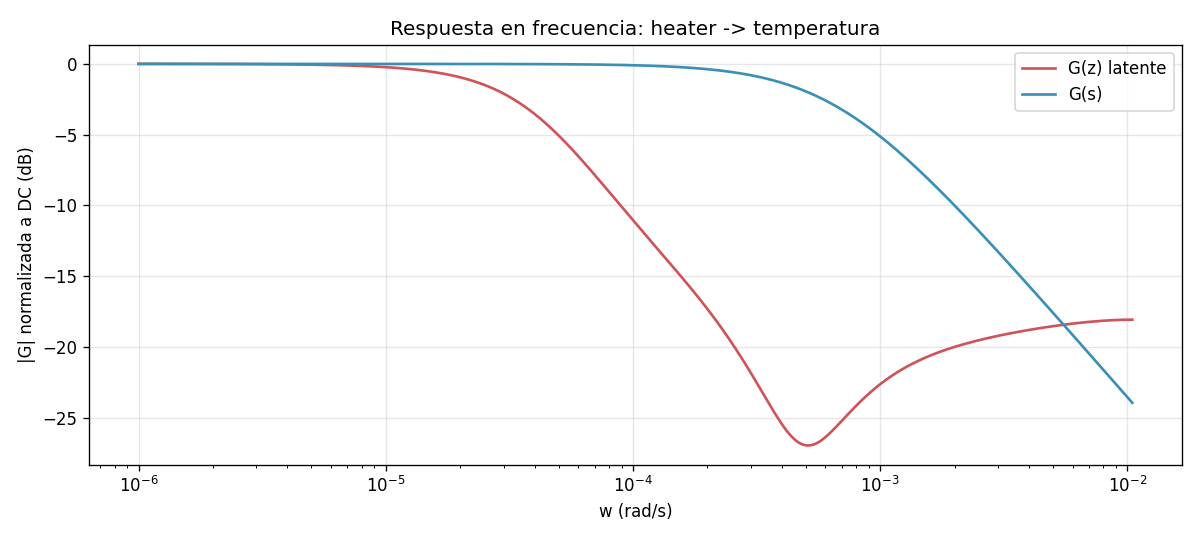
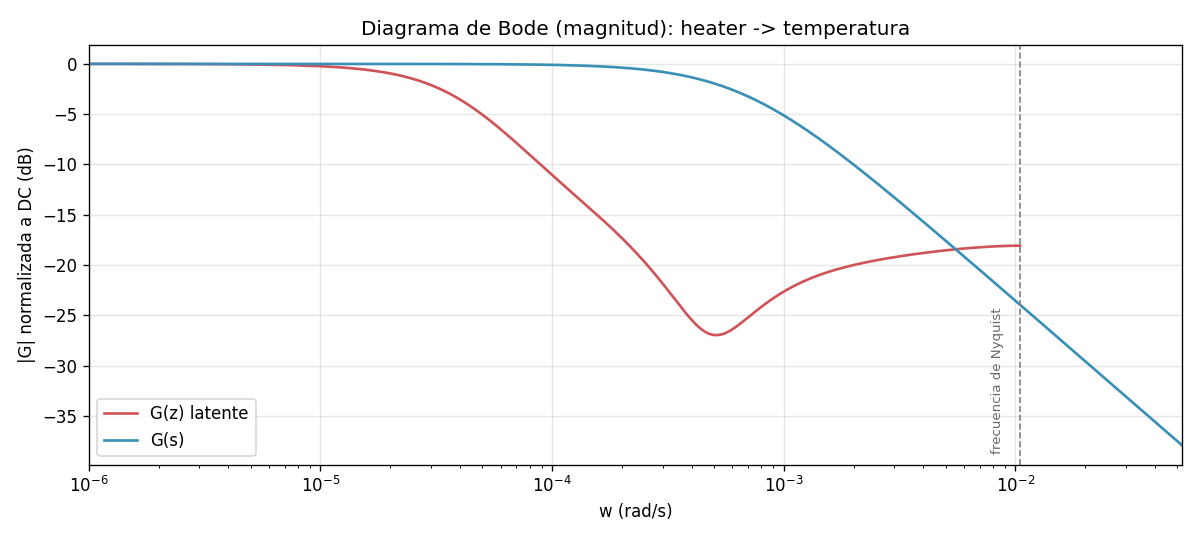
fix: diagrama de Bode con frecuencia de Nyquist marcada y etiquetas dentro del eje

diff --git a/src/graficas.py b/src/graficas.py
@@ -72,15 +72,23 @@ def main():
     scale_h = m["u_scale"][j]
     num_z, den_z = signal.ss2tf(A, B[:, [j]] / scale_h, C, D[:, [j]] / scale_h)
     num_z = num_z.ravel()
-    w = np.logspace(-6, np.log10(np.pi / dt), 400)
+    w_nyq = np.pi / dt
+    w = np.logspace(-6, np.log10(w_nyq), 400)
+    w_s = np.logspace(-6, np.log10(w_nyq) + 0.7, 500)
     _, mag_z, _ = signal.dbode((num_z, den_z, dt), w=w * dt)
-    _, mag_s, _ = signal.bode((modelo_control.NUM_S, modelo_control.DEN_S), w=w)
+    _, mag_s, _ = signal.bode((modelo_control.NUM_S, modelo_control.DEN_S), w=w_s)
     fig, ax = plt.subplots(figsize=(10, 4.5))
     ax.semilogx(w, mag_z - mag_z[0], color="#cf545a", lw=1.6, label="G(z) latente")
-    ax.semilogx(w, mag_s - mag_s[0], color="#3a8fb7", lw=1.6, label="G(s)")
+    ax.semilogx(w_s, mag_s - mag_s[0], color="#3a8fb7", lw=1.6, label="G(s)")
+    ax.axvline(w_nyq, color="gray", ls="--", lw=1.0)
+    ymin, ymax = ax.get_ylim()
+    ax.text(w_nyq * 0.85, ymin + 1, "frecuencia de Nyquist", fontsize=8,
+            color="dimgray", rotation=90, va="bottom", ha="right")
+    ax.set_xlim(1e-6, w_nyq * 5)
+    ax.set_ylim(ymin, ymax)
     ax.set_xlabel("w (rad/s)")
     ax.set_ylabel("|G| normalizada a DC (dB)")
-    ax.set_title("Respuesta en frecuencia: heater -> temperatura")
+    ax.set_title("Diagrama de Bode (magnitud): heater -> temperatura")
     ax.legend()
     ax.grid(alpha=0.3)
     plt.tight_layout()
